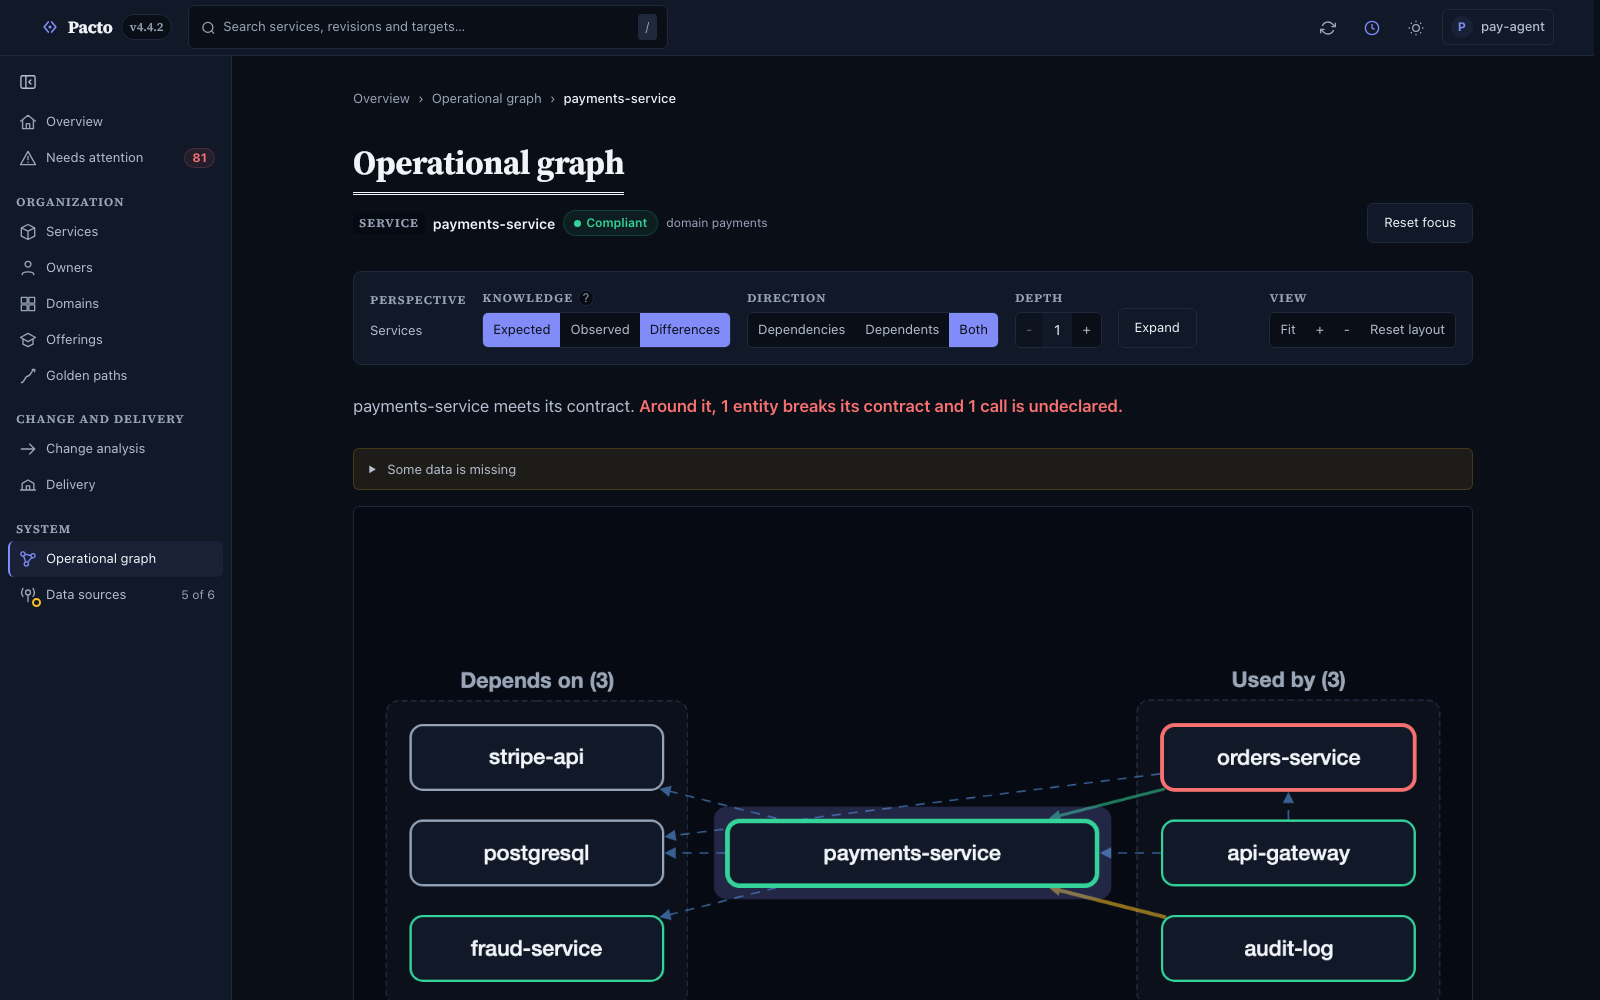
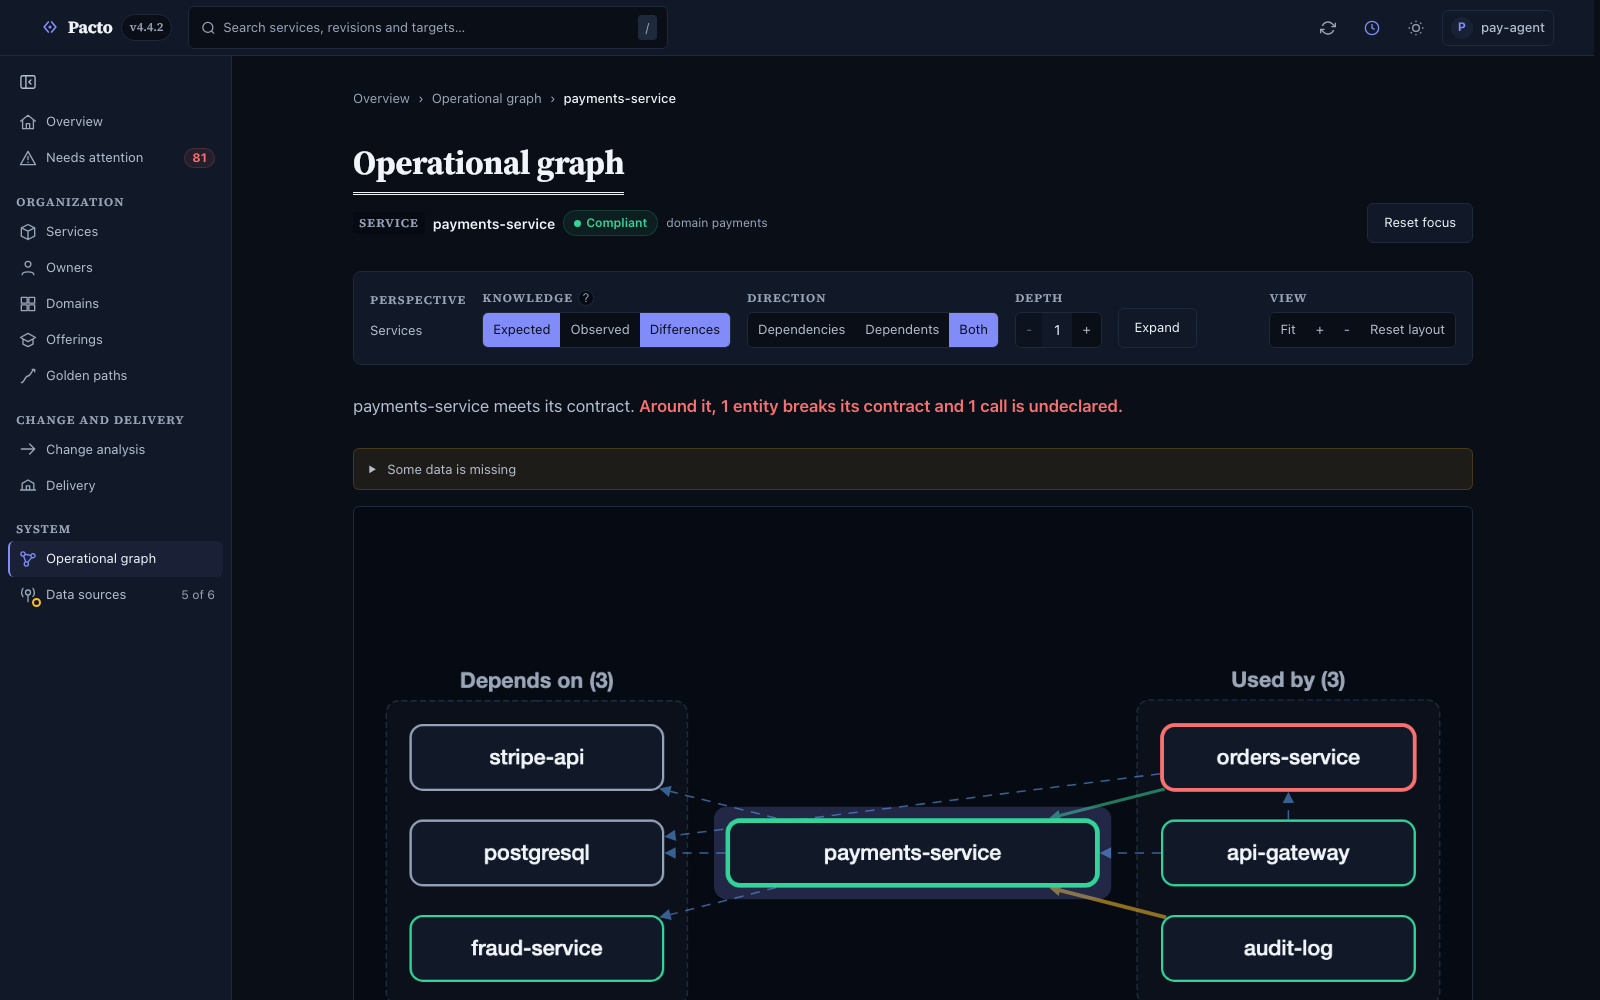
fix(docs): capture the dashboard screenshots the same on every run
The engine runs in a Web Worker that page.clock does not reach, so the
Stages caption read the real clock; the capture now runs the same fixed
Date in the worker. Partial raster dithered gradients and masks a few
grey levels apart, and sticky bars kept the layers they had while the
page loaded, so the capture rasters whole tiles and lays the settled
page out again before each shot.

diff --git a/pkg/dashboard/frontend/e2e-screenshots/capture.spec.ts b/pkg/dashboard/frontend/e2e-screenshots/capture.spec.ts
@@ -5,8 +5,16 @@ import { chooseRevision, loaded } from '../e2e/layoutGate';
 // One screenshot per documented view and theme, at 1600x1000 in the bundled fonts (Inter,
 // Source Serif 4, JetBrains Mono) with the sidebar in its wide-screen default (expanded,
 // nothing stored). The demo's notice strip is dismissed, and every figure is shown at its
-// final frame, so two runs over the same build match. `clip` crops a shot to one region.
+// final frame, so two runs over the same build match pixel for pixel. `clip` crops a shot
+// to one region.
 const OUT = '../../../docs/assets/screenshots';
+
+// The fixed instant every shot is taken at. page.clock fixes the page's clock only; the
+// engine runs in a Web Worker (examples/demo/engine.js), which the clock does not reach,
+// so its "evaluated at" times would read the real clock. The route below runs the same
+// fixed Date in the worker before the Go runtime reads it.
+const NOW = '2026-11-09T12:00:00Z';
+const WORKER_CLOCK = `{const T=Date.parse('${NOW}'),D=Date;self.Date=class extends D{constructor(...a){super(...(a.length?a:[T]))}static now(){return T}}}\n`;
 
 const SHOTS: { name: string; open: (page: Page) => Promise<void>; clip?: { x: number; y: number; width: number; height: number } }[] = [
   { name: 'overview', open: (p) => go(p, '/#/fleet', 'Is anything wrong?') },
@@ -29,6 +37,12 @@ const SHOTS: { name: string; open: (page: Page) => Promise<void>; clip?: { x: nu
   { name: 'sidebar', open: (p) => go(p, '/#/fleet', 'Is anything wrong?'), clip: { x: 0, y: 56, width: 232, height: 574 } },
 ];
 
+async function finish(page: Page) {
+  // A spinner loops forever and has no final frame to finish at.
+  await page.evaluate(() => document.getAnimations().forEach((a) => { if (a.effect?.getComputedTiming().endTime !== Infinity) a.finish(); }));
+  await settle(page);
+}
+
 async function go(page: Page, hash: string, heading: string) {
   await page.goto(hash);
   await expect(page.getByRole('heading', { level: 1 }).filter({ hasText: heading }).first()).toBeVisible();
@@ -40,16 +54,31 @@ for (const theme of ['light', 'dark'] as const) {
     for (const s of SHOTS) {
       test(s.name, async ({ page }) => {
         // A fixed clock, so "as of" times and relative ages read the same on every run.
-        await page.clock.setFixedTime(new Date('2026-11-09T12:00:00Z'));
+        await page.clock.setFixedTime(new Date(NOW));
+        await page.context().route(/\/engine\.js(\?|$)/, async (route) => {
+          const res = await route.fetch();
+          await route.fulfill({ response: res, body: WORKER_CLOCK + (await res.text()) });
+        });
         await appReady(page);
         const dismiss = page.getByRole('button', { name: 'Dismiss this notice' });
         if (await dismiss.isVisible()) await dismiss.click();
         await s.open(page);
         await page.evaluate(() => { document.documentElement.dataset.narrate = 'final'; });
         await loaded(page);
-        // A spinner loops forever and has no final frame to finish at.
-        await page.evaluate(() => document.getAnimations().forEach((a) => { if (a.effect?.getComputedTiming().endTime !== Infinity) a.finish(); }));
-        await settle(page);
+        await finish(page);
+        // Lay the settled page out again from nothing. The compositor keeps what it drew
+        // while the page loaded and moved, and a sticky bar or table header at a fractional
+        // offset then snaps a pixel up or down depending on that history. Hiding the body
+        // for a frame drops those layers, so the shot depends only on the final page.
+        // Showing it again restarts its CSS animations, hence the second finish.
+        await page.evaluate(async () => {
+          const frame = () => new Promise((r) => requestAnimationFrame(() => requestAnimationFrame(r)));
+          document.body.style.display = 'none';
+          await frame();
+          document.body.style.display = '';
+          await frame();
+        });
+        await finish(page);
         await page.evaluate(() => window.scrollTo(0, 0));
         await page.screenshot({ path: `${OUT}/dashboard-${s.name}-${theme}.png`, animations: 'disabled', caret: 'hide', clip: s.clip });
       });

diff --git a/pkg/dashboard/frontend/playwright.screenshots.config.ts b/pkg/dashboard/frontend/playwright.screenshots.config.ts
@@ -10,7 +10,16 @@ export default defineConfig({
   expect: { timeout: 20_000 },
   workers: 1,
   reporter: [['list']],
-  use: { ...devices['Desktop Chrome'], baseURL: `http://127.0.0.1:${APP_PORT}/`, viewport: { width: 1600, height: 1000 }, deviceScaleFactor: 1 },
+  use: {
+    ...devices['Desktop Chrome'],
+    baseURL: `http://127.0.0.1:${APP_PORT}/`,
+    viewport: { width: 1600, height: 1000 },
+    deviceScaleFactor: 1,
+    // Partial raster repaints only a tile's dirty rect, and the dither of a gradient or
+    // a mask then lands a few grey levels apart depending on which rect a late update
+    // dirtied. Whole-tile raster makes two runs over the same build match pixel for pixel.
+    launchOptions: { args: ['--disable-partial-raster'] },
+  },
   webServer: {
     command: `python3 e2e/serve.py ${APP_PORT} ../../../examples/demo/dist`,
     url: `http://127.0.0.1:${APP_PORT}/index.html`,
